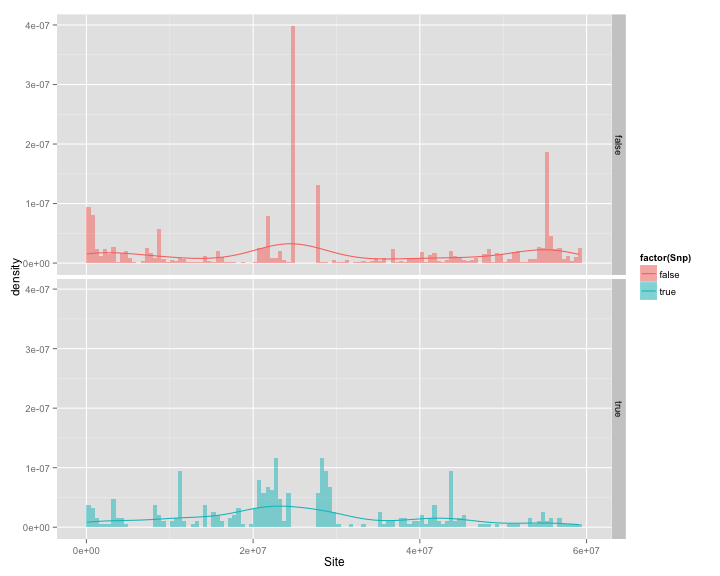
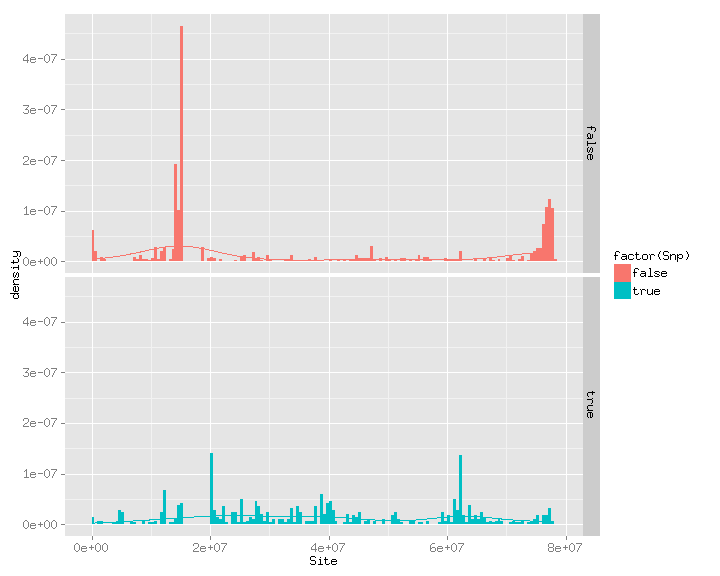
remove alpha parameter for capatability, add count graphs

Changed region(s): [[0.0, 0.0, 0.9778, 1.0]]

diff --git a/report/index.html b/report/index.html
@@ -103,7 +103,7 @@ cat sites.sorted.txt | cut -c 3-7 | sort | uniq | wc -l
   <pre><code class="r">library(ggplot2)
 load(&quot;GiaB_dataset.rda&quot;)
 p &lt;- ggplot(data=GiaB_dataset, aes(x=Chr, fill=factor(Snp)))
-p + geom_bar(position=&#39;fill&#39;)
+p + geom_bar(position=&#39;stack&#39;)
 </code></pre>
 
 <p><img src="assets/fig/unnamed-chunk-1-1.png" title="plot of chunk unnamed-chunk-1" alt="plot of chunk unnamed-chunk-1" style="display: block; margin: auto;" /></p>
@@ -111,6 +111,18 @@ p + geom_bar(position=&#39;fill&#39;)
 </article>
 
 <article class="" id="slide-9" style="background:;">
+  <h3>GiaB dataset</h3>
+  <pre><code class="r">library(ggplot2)
+load(&quot;GiaB_dataset.rda&quot;)
+p &lt;- ggplot(data=GiaB_dataset, aes(x=Chr, fill=factor(Snp)))
+p + geom_bar(position=&#39;fill&#39;)
+</code></pre>
+
+<p><img src="assets/fig/unnamed-chunk-2-1.png" title="plot of chunk unnamed-chunk-2" alt="plot of chunk unnamed-chunk-2" style="display: block; margin: auto;" /></p>
+
+</article>
+
+<article class="" id="slide-10" style="background:;">
   <h3>GiaB dataset (Code)</h3>
   <pre><code class="r">library(ggplot2); 
 load(&quot;GiaB_dataset.rda&quot;)
@@ -123,37 +135,49 @@ facet_grid(Snp~.)
 
 </article>
 
-<article class="" id="slide-10" style="background:;">
-  <h3>GiaB dataset (Chr18)</h3>
-  <p><img src="assets/fig/unnamed-chunk-3-1.png" title="plot of chunk unnamed-chunk-3" alt="plot of chunk unnamed-chunk-3" style="display: block; margin: auto;" /></p>
-
-</article>
-
 <article class="" id="slide-11" style="background:;">
-  <h3>GiaB dataset (Chr19)</h3>
+  <h3>GiaB dataset (Chr18)</h3>
   <p><img src="assets/fig/unnamed-chunk-4-1.png" title="plot of chunk unnamed-chunk-4" alt="plot of chunk unnamed-chunk-4" style="display: block; margin: auto;" /></p>
 
 </article>
 
 <article class="" id="slide-12" style="background:;">
-  <h3>GiaB dataset (Chr20)</h3>
+  <h3>GiaB dataset (Chr19)</h3>
   <p><img src="assets/fig/unnamed-chunk-5-1.png" title="plot of chunk unnamed-chunk-5" alt="plot of chunk unnamed-chunk-5" style="display: block; margin: auto;" /></p>
 
 </article>
 
 <article class="" id="slide-13" style="background:;">
-  <h3>GiaB dataset (Chr21)</h3>
+  <h3>GiaB dataset (Chr20)</h3>
   <p><img src="assets/fig/unnamed-chunk-6-1.png" title="plot of chunk unnamed-chunk-6" alt="plot of chunk unnamed-chunk-6" style="display: block; margin: auto;" /></p>
 
 </article>
 
 <article class="" id="slide-14" style="background:;">
-  <h3>GiaB dataset (Chr22)</h3>
+  <h3>GiaB dataset (Chr21)</h3>
   <p><img src="assets/fig/unnamed-chunk-7-1.png" title="plot of chunk unnamed-chunk-7" alt="plot of chunk unnamed-chunk-7" style="display: block; margin: auto;" /></p>
 
 </article>
 
 <article class="" id="slide-15" style="background:;">
+  <h3>GiaB dataset (Chr22)</h3>
+  <p><img src="assets/fig/unnamed-chunk-8-1.png" title="plot of chunk unnamed-chunk-8" alt="plot of chunk unnamed-chunk-8" style="display: block; margin: auto;" /></p>
+
+</article>
+
+<article class="" id="slide-16" style="background:;">
+  <h3>Upenn dataset</h3>
+  <pre><code class="r">library(ggplot2)
+load(&quot;upenn_dataset.rda&quot;)
+p &lt;- ggplot(data=upenn_dataset, aes(x=Chr, fill=factor(Snp)))
+p + geom_bar(position=&#39;stack&#39;)
+</code></pre>
+
+<p><img src="assets/fig/unnamed-chunk-9-1.png" title="plot of chunk unnamed-chunk-9" alt="plot of chunk unnamed-chunk-9" style="display: block; margin: auto;" /></p>
+
+</article>
+
+<article class="" id="slide-17" style="background:;">
   <h3>Upenn dataset</h3>
   <pre><code class="r">library(ggplot2)
 load(&quot;upenn_dataset.rda&quot;)
@@ -161,11 +185,11 @@ p &lt;- ggplot(data=upenn_dataset, aes(x=Chr, fill=factor(Snp)))
 p + geom_bar(position=&#39;fill&#39;)
 </code></pre>
 
-<p><img src="assets/fig/unnamed-chunk-8-1.png" title="plot of chunk unnamed-chunk-8" alt="plot of chunk unnamed-chunk-8" style="display: block; margin: auto;" /></p>
+<p><img src="assets/fig/unnamed-chunk-10-1.png" title="plot of chunk unnamed-chunk-10" alt="plot of chunk unnamed-chunk-10" style="display: block; margin: auto;" /></p>
 
 </article>
 
-<article class="" id="slide-16" style="background:;">
+<article class="" id="slide-18" style="background:;">
   <h3>Upenn dataset (Code)</h3>
   <pre><code class="r">library(ggplot2); 
 load(&quot;upenn_dataset.rda&quot;)
@@ -178,31 +202,31 @@ facet_grid(Snp~.)
 
 </article>
 
-<article class="" id="slide-17" style="background:;">
-  <h3>Upenn dataset (Chr19)</h3>
-  <p><img src="assets/fig/unnamed-chunk-10-1.png" title="plot of chunk unnamed-chunk-10" alt="plot of chunk unnamed-chunk-10" style="display: block; margin: auto;" /></p>
-
-</article>
-
-<article class="" id="slide-18" style="background:;">
-  <h3>Upenn dataset (Chr20)</h3>
-  <p><img src="assets/fig/unnamed-chunk-11-1.png" title="plot of chunk unnamed-chunk-11" alt="plot of chunk unnamed-chunk-11" style="display: block; margin: auto;" /></p>
-
-</article>
-
 <article class="" id="slide-19" style="background:;">
-  <h3>Upenn dataset (Chr21)</h3>
+  <h3>Upenn dataset (Chr19)</h3>
   <p><img src="assets/fig/unnamed-chunk-12-1.png" title="plot of chunk unnamed-chunk-12" alt="plot of chunk unnamed-chunk-12" style="display: block; margin: auto;" /></p>
 
 </article>
 
 <article class="" id="slide-20" style="background:;">
-  <h3>Upenn dataset (Chr22)</h3>
+  <h3>Upenn dataset (Chr20)</h3>
   <p><img src="assets/fig/unnamed-chunk-13-1.png" title="plot of chunk unnamed-chunk-13" alt="plot of chunk unnamed-chunk-13" style="display: block; margin: auto;" /></p>
 
 </article>
 
 <article class="" id="slide-21" style="background:;">
+  <h3>Upenn dataset (Chr21)</h3>
+  <p><img src="assets/fig/unnamed-chunk-14-1.png" title="plot of chunk unnamed-chunk-14" alt="plot of chunk unnamed-chunk-14" style="display: block; margin: auto;" /></p>
+
+</article>
+
+<article class="" id="slide-22" style="background:;">
+  <h3>Upenn dataset (Chr22)</h3>
+  <p><img src="assets/fig/unnamed-chunk-15-1.png" title="plot of chunk unnamed-chunk-15" alt="plot of chunk unnamed-chunk-15" style="display: block; margin: auto;" /></p>
+
+</article>
+
+<article class="" id="slide-23" style="background:;">
   <h3>20150313 learning</h3>
   <ol>
 <li>R basic manipulation</li>
@@ -213,7 +237,7 @@ facet_grid(Snp~.)
 
 </article>
 
-<article class="" id="slide-22" style="background:;">
+<article class="" id="slide-24" style="background:;">
   <h3>STUDYING</h3>
   <ol>
 <li>Least Angle Regression</li>
@@ -226,9 +250,15 @@ facet_grid(Snp~.)
 
 </article>
 
-<article class="" id="slide-23" style="background:;">
-  <h3></h3>
-  
+<article class="" id="slide-25" style="background:;">
+  <h3>Something about RStudio</h3>
+  <ol>
+<li>The default device of RStudio maybe has some problem when plot</li>
+<li>Try to use <code>options(device=&quot;X11&quot;)</code> or other devices</li>
+<li>Library Cairo is required if use alpha parameter which make the graphic pretty</li>
+<li>If R can not find Cairo, <font color='red'>do not</font> use alpha parameter</li>
+</ol>
+
 </article>
 
   </section>

diff --git a/report/index.md b/report/index.md
@@ -95,10 +95,24 @@ cat sites.sorted.txt | cut -c 3-7 | sort | uniq | wc -l
 library(ggplot2)
 load("GiaB_dataset.rda")
 p <- ggplot(data=GiaB_dataset, aes(x=Chr, fill=factor(Snp)))
-p + geom_bar(position='fill')
+p + geom_bar(position='stack')
 ```
 
 <img src="assets/fig/unnamed-chunk-1-1.png" title="plot of chunk unnamed-chunk-1" alt="plot of chunk unnamed-chunk-1" style="display: block; margin: auto;" />
+
+---
+
+## GiaB dataset
+
+
+```r
+library(ggplot2)
+load("GiaB_dataset.rda")
+p <- ggplot(data=GiaB_dataset, aes(x=Chr, fill=factor(Snp)))
+p + geom_bar(position='fill')
+```
+
+<img src="assets/fig/unnamed-chunk-2-1.png" title="plot of chunk unnamed-chunk-2" alt="plot of chunk unnamed-chunk-2" style="display: block; margin: auto;" />
 
 ---
 
@@ -119,31 +133,45 @@ facet_grid(Snp~.)
 
 ## GiaB dataset (Chr18)
 
-<img src="assets/fig/unnamed-chunk-3-1.png" title="plot of chunk unnamed-chunk-3" alt="plot of chunk unnamed-chunk-3" style="display: block; margin: auto;" />
+<img src="assets/fig/unnamed-chunk-4-1.png" title="plot of chunk unnamed-chunk-4" alt="plot of chunk unnamed-chunk-4" style="display: block; margin: auto;" />
 
 ---
 
 ## GiaB dataset (Chr19)
 
-<img src="assets/fig/unnamed-chunk-4-1.png" title="plot of chunk unnamed-chunk-4" alt="plot of chunk unnamed-chunk-4" style="display: block; margin: auto;" />
+<img src="assets/fig/unnamed-chunk-5-1.png" title="plot of chunk unnamed-chunk-5" alt="plot of chunk unnamed-chunk-5" style="display: block; margin: auto;" />
 
 ---
 
 ## GiaB dataset (Chr20)
 
-<img src="assets/fig/unnamed-chunk-5-1.png" title="plot of chunk unnamed-chunk-5" alt="plot of chunk unnamed-chunk-5" style="display: block; margin: auto;" />
+<img src="assets/fig/unnamed-chunk-6-1.png" title="plot of chunk unnamed-chunk-6" alt="plot of chunk unnamed-chunk-6" style="display: block; margin: auto;" />
 
 ---
 
 ## GiaB dataset (Chr21)
 
-<img src="assets/fig/unnamed-chunk-6-1.png" title="plot of chunk unnamed-chunk-6" alt="plot of chunk unnamed-chunk-6" style="display: block; margin: auto;" />
+<img src="assets/fig/unnamed-chunk-7-1.png" title="plot of chunk unnamed-chunk-7" alt="plot of chunk unnamed-chunk-7" style="display: block; margin: auto;" />
 
 ---
 
 ## GiaB dataset (Chr22)
 
-<img src="assets/fig/unnamed-chunk-7-1.png" title="plot of chunk unnamed-chunk-7" alt="plot of chunk unnamed-chunk-7" style="display: block; margin: auto;" />
+<img src="assets/fig/unnamed-chunk-8-1.png" title="plot of chunk unnamed-chunk-8" alt="plot of chunk unnamed-chunk-8" style="display: block; margin: auto;" />
+
+---
+
+## Upenn dataset
+
+
+```r
+library(ggplot2)
+load("upenn_dataset.rda")
+p <- ggplot(data=upenn_dataset, aes(x=Chr, fill=factor(Snp)))
+p + geom_bar(position='stack')
+```
+
+<img src="assets/fig/unnamed-chunk-9-1.png" title="plot of chunk unnamed-chunk-9" alt="plot of chunk unnamed-chunk-9" style="display: block; margin: auto;" />
 
 ---
 
@@ -157,7 +185,7 @@ p <- ggplot(data=upenn_dataset, aes(x=Chr, fill=factor(Snp)))
 p + geom_bar(position='fill')
 ```
 
-<img src="assets/fig/unnamed-chunk-8-1.png" title="plot of chunk unnamed-chunk-8" alt="plot of chunk unnamed-chunk-8" style="display: block; margin: auto;" />
+<img src="assets/fig/unnamed-chunk-10-1.png" title="plot of chunk unnamed-chunk-10" alt="plot of chunk unnamed-chunk-10" style="display: block; margin: auto;" />
 
 ---
 
@@ -178,25 +206,25 @@ facet_grid(Snp~.)
 
 ## Upenn dataset (Chr19)
 
-<img src="assets/fig/unnamed-chunk-10-1.png" title="plot of chunk unnamed-chunk-10" alt="plot of chunk unnamed-chunk-10" style="display: block; margin: auto;" />
+<img src="assets/fig/unnamed-chunk-12-1.png" title="plot of chunk unnamed-chunk-12" alt="plot of chunk unnamed-chunk-12" style="display: block; margin: auto;" />
 
 ---
 
 ## Upenn dataset (Chr20)
 
-<img src="assets/fig/unnamed-chunk-11-1.png" title="plot of chunk unnamed-chunk-11" alt="plot of chunk unnamed-chunk-11" style="display: block; margin: auto;" />
+<img src="assets/fig/unnamed-chunk-13-1.png" title="plot of chunk unnamed-chunk-13" alt="plot of chunk unnamed-chunk-13" style="display: block; margin: auto;" />
 
 ---
 
 ## Upenn dataset (Chr21)
 
-<img src="assets/fig/unnamed-chunk-12-1.png" title="plot of chunk unnamed-chunk-12" alt="plot of chunk unnamed-chunk-12" style="display: block; margin: auto;" />
+<img src="assets/fig/unnamed-chunk-14-1.png" title="plot of chunk unnamed-chunk-14" alt="plot of chunk unnamed-chunk-14" style="display: block; margin: auto;" />
 
 ---
 
 ## Upenn dataset (Chr22)
 
-<img src="assets/fig/unnamed-chunk-13-1.png" title="plot of chunk unnamed-chunk-13" alt="plot of chunk unnamed-chunk-13" style="display: block; margin: auto;" />
+<img src="assets/fig/unnamed-chunk-15-1.png" title="plot of chunk unnamed-chunk-15" alt="plot of chunk unnamed-chunk-15" style="display: block; margin: auto;" />
 
 ---
 
@@ -219,3 +247,12 @@ facet_grid(Snp~.)
 6. <font color='red'>ParticleCall</font>
 
 ---
+
+## Something about RStudio
+
+1. The default device of RStudio maybe has some problem when plot
+2. Try to use `options(device="X11")` or other devices
+3. Library Cairo is required if use alpha parameter which make the graphic pretty
+4. If R can not find Cairo, <font color='red'>do not</font> use alpha parameter
+
+
